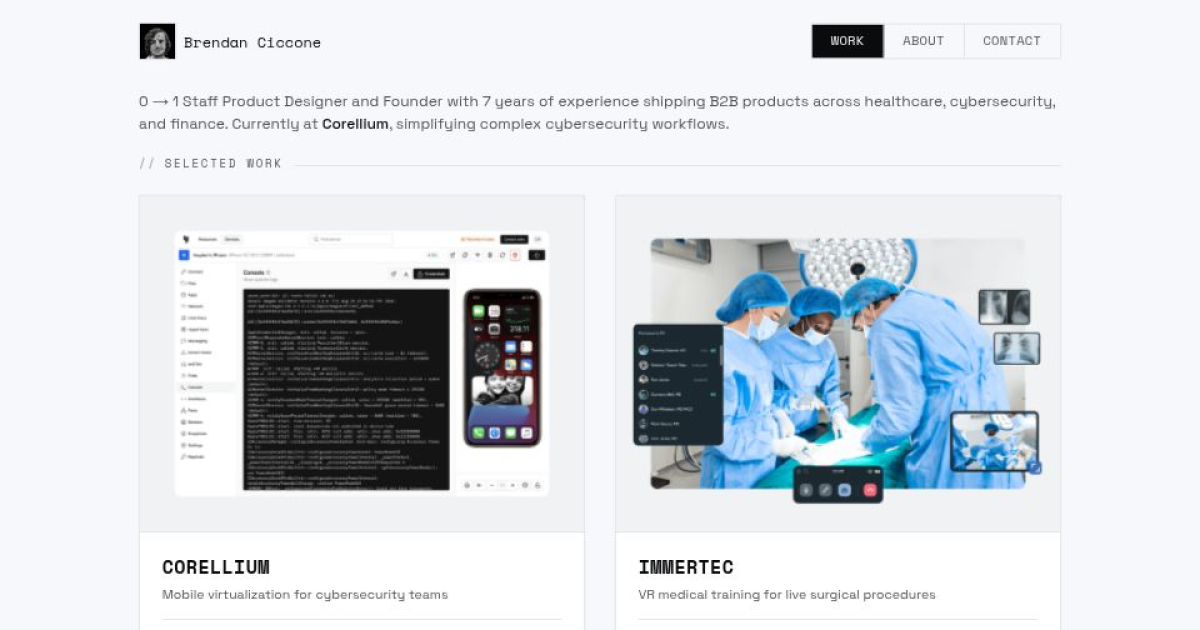
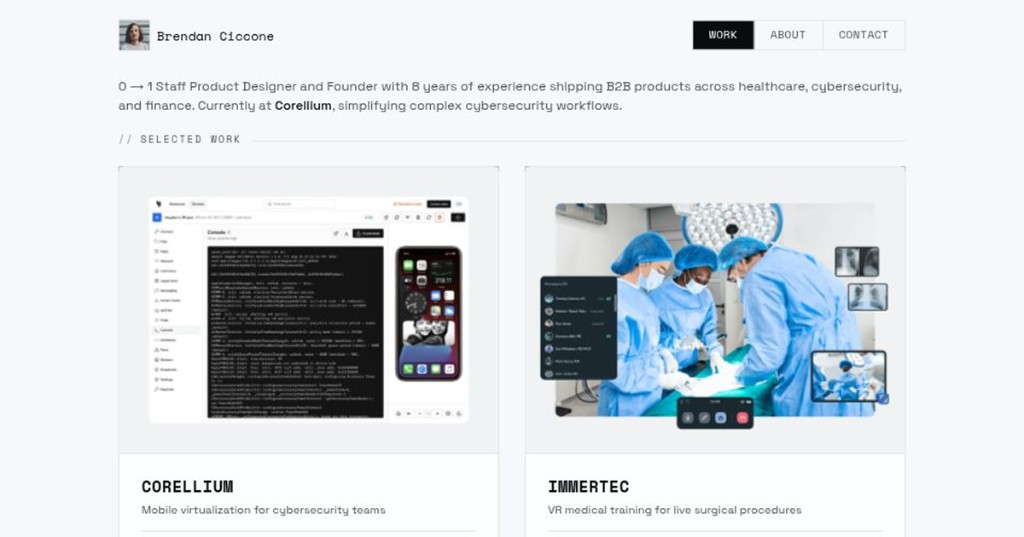
chore: update og image for enhanced branding

diff --git a/lib/metadata.ts b/lib/metadata.ts
@@ -5,7 +5,7 @@ const baseMetadata = {
   siteName: "Brendan Ciccone",
   description: "Brendan Ciccone is a 0 → 1 Staff Product Designer with 8 years of experience turning ideas into fully realized B2B products across healthcare, cybersecurity, and finance.",
   baseUrl: "https://brendanciccone.com",
-  defaultImage: "https://hebbkx1anhila5yf.public.blob.vercel-storage.com/image.jpg-d0SidsvzAZGPwLQFoyhGS1atLlTVa3.jpeg",
+  defaultImage: "https://brendanciccone.com/og.png",
   creator: "@brendanciccone",
   locale: "en_US",
 };
@@ -65,8 +65,8 @@ export function generatePageMetadata({
   path = '',
   imageUrl = baseMetadata.defaultImage,
   imageAlt = "Brendan Ciccone - 0 → 1 Staff Product Designer",
-  imageWidth = 1200,
-  imageHeight = 630,
+  imageWidth = 1024,
+  imageHeight = 537,
 }: PageMetadataParams): Metadata {
   const pageTitle = title 
     ? `${title} - Brendan Ciccone - 0 → 1 Staff Product Designer`
